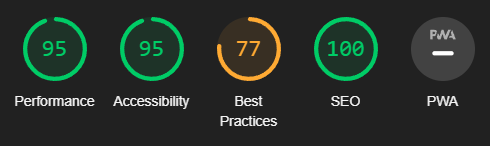
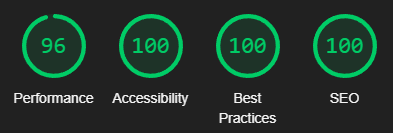
Update test.md, add jshint results, add manual testing for game page

diff --git a/TEST.md b/TEST.md
@@ -2,7 +2,7 @@
 
 ![Website on different screen sizes](documentation/responsive.webp)
 
-Deployed website: [Pick Your Poison](https://redifoo.me/pick-your-poison/)
+Deployed website: [Pick Your Poison](https://redifo.github.io/pick-your-poison/)
 
 - - -
 
@@ -12,6 +12,8 @@ Deployed website: [Pick Your Poison](https://redifoo.me/pick-your-poison/)
   * [W3C Validator](#w3c-validator)
   * [Jshint](#jshint)
   * [Lighthouse](#lighthouse)
+    * [Desktop Results](#Desktop-Results)
+    * [Mobile Results](#Mobile-Results)
 * [MANUAL TESTING](#manual-testing)
 
 Continuously test throughout construction. Use Chrome developer tools to find and fix issues as you build. Be proactive in addressing challenges.
@@ -37,32 +39,37 @@ The w3 html and jigsaw css validators have been used to make sure the code does 
 - - -
 ### Jshint
 
+The home.js file testing shows 3 unsused variables but these variables are the functions and they are only called within the buttons on the home page, therefore it is normal to get these messages. 
+
 ![home.js](documentation/auto-test/jshint-home.PNG) 
 
+The automated testing for the game.js file shows 1 undefined variable and 1 unused variable.  The undefined variable is the swal variable which is used for sweetalert2 and the unused variable is the function for preventing accidental home clicking and it is only called within the buttons on the game page, therefore it is normal to get these messages. 
+
 ![game.js](documentation/auto-test/jshint-game.PNG) 
+
 ### Lighthouse
 
 The website has been tested by google chrome's lighthouse report and the results are shown below. 
 
-### Desktop Results
+#### Desktop Results
 
 home page
-![index.html](documentation/testing/desktop-lighthouse-home.png)
+
+![index.html](documentation/auto-test/home-lighthouse-desktop.png)
 
 Game page
-![game.html](documentation/testing/desktop-lighthouse-game.png)
 
+![game.html](documentation/auto-test/game-lighthouse-desktop.png)
 
-### Mobile Results
-
-
+#### Mobile Results
 
 home page
-![index.html](documentation/testing/mobile-lighthouse-home.png)
+
+![index.html](documentation/auto-test/home-lighthouse-mobile.png) 
 
 Game page
-![game.html](documentation/testing/mobile-lighthouse-game.png)
 
+![game.html](documentation/auto-test/game-lighthouse-mobile.png) 
 
 
 - - -
@@ -96,9 +103,15 @@ Each device tested the site using the following browsers:
 | --- | --- | --- | --- | --- |
 | The Sites title | Link directs the user back to the home page | Clicked title | direct to home page | pass |
 | All buttons and navigation menu items and social media icons- hover effect | Change colour when hovered on | Hover over each button on the page | Each button displayed the correct styling when hovered over | pass |
-|  |  |  |  |  |
-|  |  |  |  |  |
-|  |  |  |  |  |
+| Player Name Validation | Display an error message if the name is less than 4 characters or empty. |  Entered names of various lengths and clicked start button| Error messages displayed correctly | Pass |
+| Question Display | Display the current question and answer choices after shuffling. | Clicked the "Next" button to navigate through questions. | Questions and choices displayed correctly and shuffled | Pass |
+| Answer Validation | Highlight correct and incorrect answers, disable further clicks. | Clicked on answer choices for various questions. | Correct answers highlighted, buttons disabled | Pass |
+| Next Button Functionality   | Increment question index, show the next question, and hide the button if no more questions. | Clicked the "Next" button after answering questions.       | Question index incremented, next question displayed | Pass      |
+| Reset Button Functionality  | Reset question index, score, and timer, display the first question. | Clicked the "Reset" button after completing the game.      | Game reset, first question displayed  | Pass      |
+| Timer Functionality         | Start, stop, and reset the timer as expected.                 | Observed timer behavior during gameplay and resets.      | Timer starts, stops, and resets correctly | Pass      |
+| Game Completion Display     | Show the final score, player name, and time after completing the game. | Completed the game by answering all questions.             | Final score, player name, and time displayed | Pass      |
+| Prevent Home Functionality  | Display a confirmation alert before navigating to the home page. | Clicked on the home button during gameplay.               | Confirmation alert displayed, navigation prevented | Pass      |
+| Accidental Click Prevention | Display a confirmation alert before navigating to the home page. | Clicked on the game logo during gameplay.                | Confirmation alert displayed, navigation prevented | Pass      |
 
 
 

diff --git a/README.md b/README.md
@@ -2,7 +2,7 @@
 
 ![Pick your poison shown on a variety of screen sizes](documentation/responsive.webp)
 
-The deployed site: [Pick your poison](redifoo.me/pick-your-poison/)
+The deployed site: [Pick your poison](https://redifo.github.io/pick-your-poison/)
 
 Pick your poison, cocktails learning quiz game website. 
 Welcome to "Pick Your Poison," an engaging cocktail learning quiz game designed to elevate your mixology knowledge while having fun! This interactive web application combines the thrill of a quiz game with the sophistication of cocktail culture, making learning both enjoyable and informative.
@@ -207,8 +207,7 @@ HTML, CSS, js
 
 ## Deployment & Local Development
 
-The site is deployed using GitHub Pages: https://redifo.github.io/ci_pp1/
-
+The site is deployed using GitHub Pages: [Pick your poison](https://redifo.github.io/pick-your-poison/)
 To Deploy the site using GitHub Pages follow these steps:
 
 1. Log in or sign up on GitHub.
